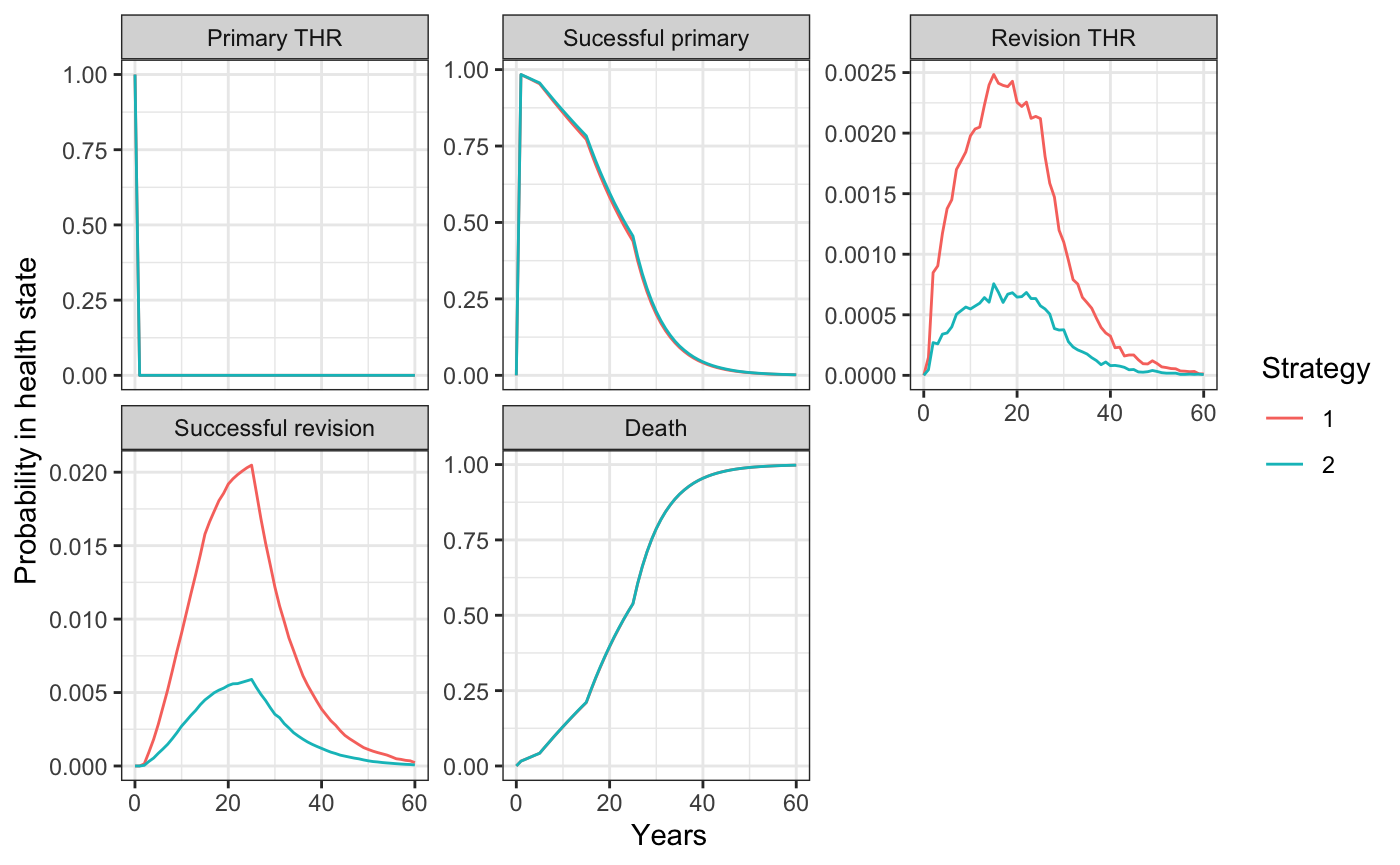
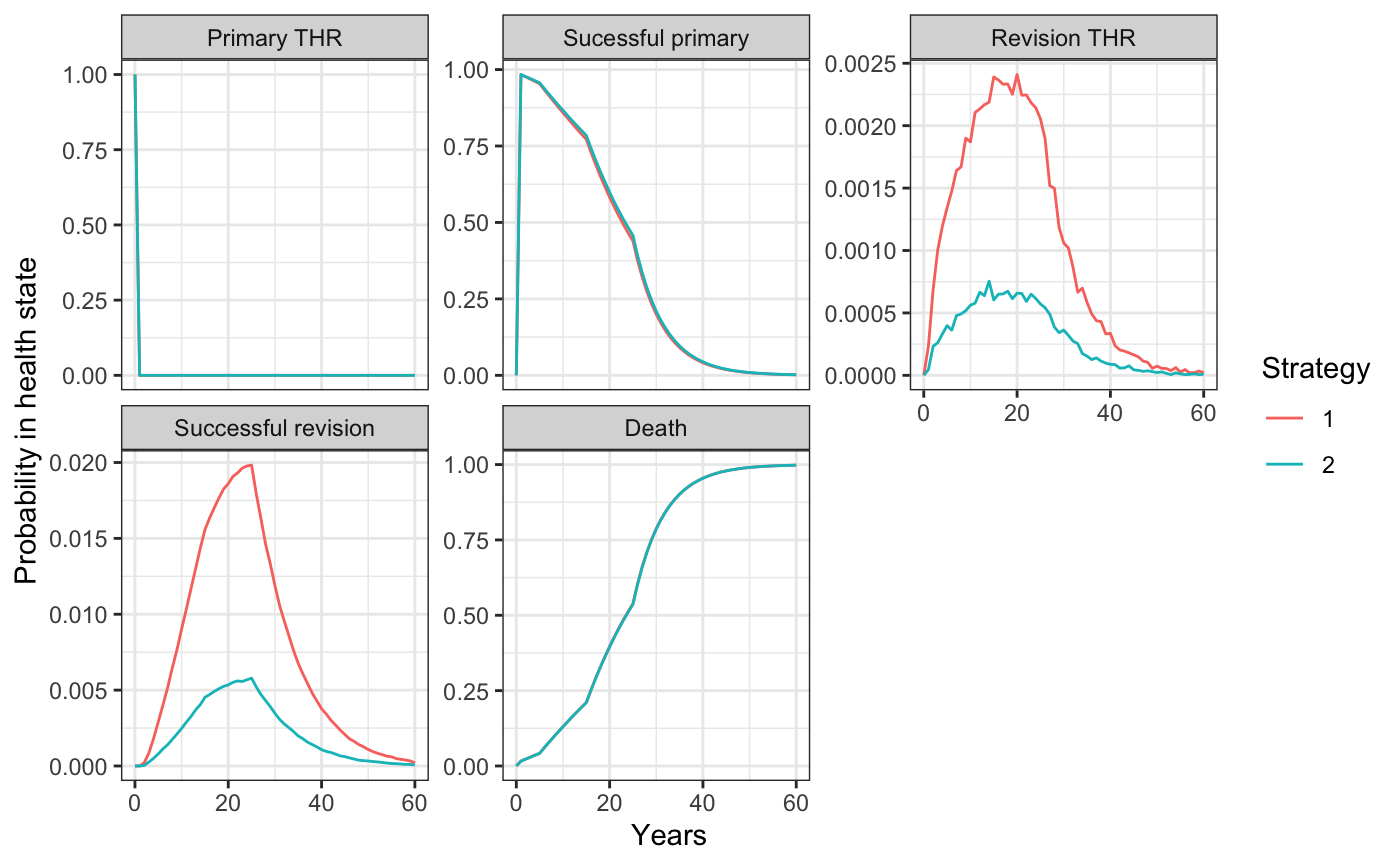
Update markov-inhomogeneous-indiv vignette (mainly moving parameter construction portion to correct section)

diff --git a/docs/dev/articles/markov-inhomogeneous-indiv.html b/docs/dev/articles/markov-inhomogeneous-indiv.html
@@ -111,7 +111,7 @@
     <div class="page-header toc-ignore">
       <h1 data-toc-skip>Time inhomogeneous Markov individual-level models</h1>
             
-            <h4 class="date">2020-09-21</h4>
+            <h4 class="date">2020-09-25</h4>
       
       <small class="dont-index">Source: <a href="https://github.com/hesim-dev/hesim/blob/master/vignettes/markov-inhomogeneous-indiv.Rmd"><code>vignettes/markov-inhomogeneous-indiv.Rmd</code></a></small>
       <div class="hidden name"><code>markov-inhomogeneous-indiv.Rmd</code></div>
@@ -344,15 +344,18 @@ NA
 </tr>
 </tbody>
 </table>
-<div id="transition-1" class="section level3">
+<div id="estimates-from-literature" class="section level3">
 <h3 class="hasAnchor">
-<a href="#transition-1" class="anchor"></a>Transition 1</h3>
+<a href="#estimates-from-literature" class="anchor"></a>Estimates from literature</h3>
+<div id="transition-1" class="section level4">
+<h4 class="hasAnchor">
+<a href="#transition-1" class="anchor"></a>Transition 1</h4>
 <p>The model for the first transition determines the time from the original surgery until it is deemed “successful”. In the Markov model, we used model cycles that were 1-year long meaning that this process took 1-year. Since there are no model cycles in a CTSTM, we can be more flexible. Let’s assume that time to recovery (TTR) from surgery takes on average 6 months and follows an exponential distribution.</p>
 <div class="sourceCode" id="cb5"><html><body><pre class="r"><span class="no">ttrrPTHR</span> <span class="kw">&lt;-</span> <span class="fl">2</span> <span class="co"># Time to recovery rate implies mean time of 1/2 years</span></pre></body></html></div>
 </div>
-<div id="transition-2" class="section level3">
-<h3 class="hasAnchor">
-<a href="#transition-2" class="anchor"></a>Transition 2</h3>
+<div id="transition-2" class="section level4">
+<h4 class="hasAnchor">
+<a href="#transition-2" class="anchor"></a>Transition 2</h4>
 <p>The second transition depends on the operative mortality rate following primary THR (<em>omrPTHR</em>). As in the cohort model we will assume the probability of death (within 1-year) is drawn from a beta distributions.</p>
 <div class="sourceCode" id="cb6"><html><body><pre class="r"><span class="co"># 2 out of 100 patients receiving primary THR died</span>
 <span class="no">omrPTHR_shape1</span> <span class="kw">&lt;-</span> <span class="fl">2</span>
@@ -362,9 +365,9 @@ NA
   (-<span class="fu"><a href="https://rdrr.io/r/base/Log.html">log</a></span>(<span class="fl">1</span> - <span class="no">p</span>))/<span class="no">t</span>
 }</pre></body></html></div>
 </div>
-<div id="transition-3" class="section level3">
-<h3 class="hasAnchor">
-<a href="#transition-3" class="anchor"></a>Transition 3</h3>
+<div id="transition-3" class="section level4">
+<h4 class="hasAnchor">
+<a href="#transition-3" class="anchor"></a>Transition 3</h4>
 <p>Transition 3 depends on the revision rate (<code>rr</code>) for a prosthesis, which will again be modeled using a proportional hazards Weibull model. The coefficients and variance-covariance matrix are displayed below.</p>
 <div class="sourceCode" id="cb8"><html><body><pre class="r"><span class="fu"><a href="https://rdrr.io/r/base/print.html">print</a></span>(<span class="no">rr_coef</span>)</pre></body></html></div>
 <pre><code>##    lngamma       cons        age       male        np1 
@@ -377,119 +380,54 @@ NA
 ## male     0.000005100 -0.00724700  3.300000e-05  0.01189539  0.0001840
 ## np1      0.000259000 -0.00064200 -1.110000e-04  0.00018400  0.1463686</code></pre>
 </div>
-<div id="transition-4" class="section level3">
-<h3 class="hasAnchor">
-<a href="#transition-4" class="anchor"></a>Transition 4</h3>
+<div id="transition-4" class="section level4">
+<h4 class="hasAnchor">
+<a href="#transition-4" class="anchor"></a>Transition 4</h4>
 <p>The fourth transition is modeled using the death rate following recovery from the THR (i.e., while in the successful primary state). We will again use age and sex specific mortality rates.</p>
 <p>Since we are running the simulation for a 60-year old female, the mortality rate at time <span class="math inline">\(0\)</span> is <span class="math inline">\(0.0067\)</span>. We are using a clock-forward (i.e., Markov model), so the hazard depends on time since the start of the model. We can therefore model mortality over time with a piecewise exponential distribution with rates that vary over time. For a 60-year female, the rates will change at 5, 15, and 25 years.</p>
 <div class="sourceCode" id="cb12"><html><body><pre class="r"><span class="no">mr</span> <span class="kw">&lt;-</span> <span class="fu"><a href="https://rdrr.io/r/base/c.html">c</a></span>(<span class="fl">.0067</span>, <span class="fl">.0193</span>, <span class="fl">.0535</span>, <span class="fl">.1548</span>)
 <span class="no">mr_times</span> <span class="kw">&lt;-</span> <span class="fu"><a href="https://rdrr.io/r/base/c.html">c</a></span>(<span class="fl">0</span>, <span class="fl">5</span>, <span class="fl">15</span>, <span class="fl">25</span>)</pre></body></html></div>
 </div>
-<div id="transition-5" class="section level3">
-<h3 class="hasAnchor">
-<a href="#transition-5" class="anchor"></a>Transition 5</h3>
+<div id="transition-5" class="section level4">
+<h4 class="hasAnchor">
+<a href="#transition-5" class="anchor"></a>Transition 5</h4>
 <p>Transition 5 is similar to transition 1 in that it is a function of time to recovery from a THR. While we could again model this process with an exponential distribution, we will instead assume this time is “fixed” for illustration purposes. Specifically, let’s assume it takes one year for every patient.</p>
 <div class="sourceCode" id="cb13"><html><body><pre class="r"><span class="no">ttrRTHR</span> <span class="kw">&lt;-</span> <span class="fl">1</span> <span class="co"># There is no rate, the time is fixed</span></pre></body></html></div>
 </div>
-<div id="transition-6" class="section level3">
-<h3 class="hasAnchor">
-<a href="#transition-6" class="anchor"></a>Transition 6</h3>
+<div id="transition-6" class="section level4">
+<h4 class="hasAnchor">
+<a href="#transition-6" class="anchor"></a>Transition 6</h4>
 <p>Following the prior example, the sixth transition depends on the operative mortality rate following revision THR (<em>omrRTHR</em>) and the overall mortality rate (<em>mr</em>). The <em>omrRTHR</em> is assumed to follow the same distribution as the <em>omrPTHR</em>.</p>
 <p>These probabilities will be converted to rates below and then added to overall mortality rate (<em>mr</em>) at times 0, 5, 15, and 25 years. Transition 6 will consequently be modeled using a piecewise exponential distribution.</p>
 </div>
-<div id="transition-7" class="section level3">
-<h3 class="hasAnchor">
-<a href="#transition-7" class="anchor"></a>Transition 7</h3>
+<div id="transition-7" class="section level4">
+<h4 class="hasAnchor">
+<a href="#transition-7" class="anchor"></a>Transition 7</h4>
 <p>The re-revision rate (<em>rrr</em>) is used to model the seventh transition. Like the <em>omrPTHR</em>, the probability is modeled with a beta distribution and will be converted to a rate below.</p>
 <div class="sourceCode" id="cb14"><html><body><pre class="r"><span class="co"># 4 out of 100 patients with a successful revision needed another procedure r</span>
 <span class="no">omrRTHR_shape1</span> <span class="kw">&lt;-</span> <span class="fl">4</span>
 <span class="no">omrRTHR_shape2</span> <span class="kw">&lt;-</span> <span class="fl">96</span></pre></body></html></div>
 </div>
-<div id="transition-8" class="section level3">
-<h3 class="hasAnchor">
-<a href="#transition-8" class="anchor"></a>Transition 8</h3>
+<div id="transition-8" class="section level4">
+<h4 class="hasAnchor">
+<a href="#transition-8" class="anchor"></a>Transition 8</h4>
 <p>The final transition is time to death following a successful revision. We model it with the same model used for transition 4; that is, we assume mortality rates following a successful revision THR are the same as mortality rates following a successful primary THR.</p>
 </div>
 </div>
-<div id="utility-and-costs" class="section level2">
-<h2 class="hasAnchor">
-<a href="#utility-and-costs" class="anchor"></a>Utility and costs</h2>
-<p>Costs and utilities are unchanged from the cohort model. The mean (standard error) of utility are estimated be 0.85 (0.03), 0.30 (0.03), and 0.75 (0.04) in the successful primary, revision, and successful revision health states, respectively.</p>
-<div class="sourceCode" id="cb15"><html><body><pre class="r"><span class="no">utility_tbl</span> <span class="kw">&lt;-</span> <span class="fu"><a href="../reference/stateval_tbl.html">stateval_tbl</a></span>(
-  <span class="fu"><a href="https://Rdatatable.gitlab.io/data.table/reference/data.table.html">data.table</a></span>(<span class="kw">state_id</span> <span class="kw">=</span> <span class="no">states</span>$<span class="no">state_id</span>,
-             <span class="kw">mean</span> <span class="kw">=</span> <span class="fu"><a href="https://rdrr.io/r/base/c.html">c</a></span>(<span class="fl">0</span>, <span class="fl">.85</span>, <span class="fl">.3</span>, <span class="fl">.75</span>),
-             <span class="kw">se</span> <span class="kw">=</span> <span class="fu"><a href="https://rdrr.io/r/base/c.html">c</a></span>(<span class="fl">0</span>, <span class="fl">.03</span>, <span class="fl">.03</span>, <span class="fl">.04</span>)),
-  <span class="kw">dist</span> <span class="kw">=</span> <span class="st">"beta"</span>,
-  <span class="kw">hesim_data</span> <span class="kw">=</span> <span class="no">hesim_dat</span>
-)
-<span class="fu"><a href="https://rdrr.io/r/utils/head.html">head</a></span>(<span class="no">utility_tbl</span>)</pre></body></html></div>
-<pre><code>##    state_id mean   se
-## 1:        1 0.00 0.00
-## 2:        2 0.85 0.03
-## 3:        3 0.30 0.03
-## 4:        4 0.75 0.04</code></pre>
-<p>The standard prosthesis costs <span class="math inline">\(£394\)</span> while the new prosthesis costs <span class="math inline">\(£579\)</span>. Both are assumed to be known with certainty.</p>
-<p>Since the model assumes that there are no ongoing medical costs, the only remaining cost is the cost of the revision procedure, which was estimated to have a mean of <span class="math inline">\(£5,294\)</span> and standard error of <span class="math inline">\(£1,487\)</span>.</p>
-<div class="sourceCode" id="cb17"><html><body><pre class="r"><span class="no">drugcost_tbl</span> <span class="kw">&lt;-</span> <span class="fu"><a href="../reference/stateval_tbl.html">stateval_tbl</a></span>(
-  <span class="fu"><a href="https://Rdatatable.gitlab.io/data.table/reference/data.table.html">data.table</a></span>(<span class="kw">strategy_id</span> <span class="kw">=</span> <span class="fu"><a href="https://rdrr.io/r/base/rep.html">rep</a></span>(<span class="no">strategies</span>$<span class="no">strategy_id</span>, <span class="kw">each</span> <span class="kw">=</span> <span class="no">n_states</span>),
-             <span class="kw">state_id</span> <span class="kw">=</span> <span class="fu"><a href="https://rdrr.io/r/base/rep.html">rep</a></span>(<span class="no">states</span>$<span class="no">state_id</span>, <span class="kw">times</span> <span class="kw">=</span> <span class="no">n_strategies</span>),
-             <span class="kw">est</span> <span class="kw">=</span> <span class="fu"><a href="https://rdrr.io/r/base/c.html">c</a></span>(<span class="fl">394</span>, <span class="fl">0</span>, <span class="fl">0</span>, <span class="fl">0</span>,
-                     <span class="fl">579</span>, <span class="fl">0</span>, <span class="fl">0</span>, <span class="fl">0</span>)),
-  <span class="kw">dist</span> <span class="kw">=</span> <span class="st">"fixed"</span>,
-  <span class="kw">hesim_data</span> <span class="kw">=</span> <span class="no">hesim_dat</span>
-)
-
-<span class="no">medcost_tbl</span> <span class="kw">&lt;-</span> <span class="fu"><a href="../reference/stateval_tbl.html">stateval_tbl</a></span>(
-  <span class="fu"><a href="https://Rdatatable.gitlab.io/data.table/reference/data.table.html">data.table</a></span>(<span class="kw">state_id</span> <span class="kw">=</span> <span class="no">states</span>$<span class="no">state_id</span>,
-             <span class="kw">mean</span> <span class="kw">=</span> <span class="fu"><a href="https://rdrr.io/r/base/c.html">c</a></span>(<span class="fl">0</span>, <span class="fl">0</span>, <span class="fl">5294</span>, <span class="fl">0</span>),
-             <span class="kw">se</span> <span class="kw">=</span> <span class="fu"><a href="https://rdrr.io/r/base/c.html">c</a></span>(<span class="fl">0</span>, <span class="fl">0</span>, <span class="fl">1487</span>, <span class="fl">0</span>)),
-  <span class="kw">dist</span> <span class="kw">=</span> <span class="st">"gamma"</span>,
-  <span class="kw">hesim_data</span> <span class="kw">=</span> <span class="no">hesim_dat</span>
-)</pre></body></html></div>
-</div>
-</div>
-<div id="simulation" class="section level1">
-<h1 class="hasAnchor">
-<a href="#simulation" class="anchor"></a>Simulation</h1>
-<div id="constructing-the-model" class="section level2">
-<h2 class="hasAnchor">
-<a href="#constructing-the-model" class="anchor"></a>Constructing the model</h2>
-<p>The economic model consists of a model for disease progression and models for assigning utility and cost values to health states. In this example, we will use 500 samples of the parameters for the probabilistic sensitivity analysis (PSA).</p>
-<div class="sourceCode" id="cb18"><html><body><pre class="r"><span class="no">n_samples</span> <span class="kw">&lt;-</span> <span class="fl">500</span></pre></body></html></div>
-<div id="disease-model" class="section level3">
+<div id="multi-state-model" class="section level3">
 <h3 class="hasAnchor">
-<a href="#disease-model" class="anchor"></a>Disease model</h3>
-<div id="input-data" class="section level4">
-<h4 class="hasAnchor">
-<a href="#input-data" class="anchor"></a>Input data</h4>
-<p>The transition model is a function of parameters and input data. The input data in this case is a dataset consisting of one row for each treatment strategy and patient. It can be generated using <code><a href="../reference/expand.html">expand()</a></code>.</p>
-<div class="sourceCode" id="cb19"><html><body><pre class="r"><span class="no">transmod_data</span> <span class="kw">&lt;-</span> <span class="fu"><a href="../reference/expand.html">expand</a></span>(<span class="no">hesim_dat</span>, <span class="kw">by</span> <span class="kw">=</span> <span class="fu"><a href="https://rdrr.io/r/base/c.html">c</a></span>(<span class="st">"strategies"</span>, <span class="st">"patients"</span>))
-<span class="fu"><a href="https://rdrr.io/r/utils/head.html">head</a></span>(<span class="no">transmod_data</span>)</pre></body></html></div>
-<pre><code>##    strategy_id patient_id       strategy_name gender age
-## 1:           1          1 Standard prosthesis Female  60
-## 2:           1          2 Standard prosthesis Female  60
-## 3:           1          3 Standard prosthesis Female  60
-## 4:           1          4 Standard prosthesis Female  60
-## 5:           1          5 Standard prosthesis Female  60
-## 6:           1          6 Standard prosthesis Female  60</code></pre>
-<p>Since we are using a Weibull regression model to simulate time until a revision hip replacement (<em>Successful primary</em> to <em>Revision THR</em>), we need to create a constant term and covariates for male sex and whether the new prosthesis was used.</p>
-<div class="sourceCode" id="cb21"><html><body><pre class="r"><span class="no">transmod_data</span>[, <span class="no">cons</span> <span class="kw">:=</span> <span class="fl">1</span>]
-<span class="no">transmod_data</span>[, <span class="no">male</span> <span class="kw">:=</span> <span class="fu"><a href="https://Rdatatable.gitlab.io/data.table/reference/fifelse.html">ifelse</a></span>(<span class="no">gender</span> <span class="kw">==</span> <span class="st">"Male"</span>, <span class="fl">1</span>, <span class="fl">0</span>)]
-<span class="no">transmod_data</span>[, <span class="no">np1</span> <span class="kw">:=</span> <span class="fu"><a href="https://Rdatatable.gitlab.io/data.table/reference/fifelse.html">ifelse</a></span>(<span class="no">strategy_name</span> <span class="kw">==</span> <span class="st">"New prosthesis"</span>, <span class="fl">1</span>, <span class="fl">0</span>)]</pre></body></html></div>
-</div>
-<div id="parameters-1" class="section level4">
-<h4 class="hasAnchor">
-<a href="#parameters-1" class="anchor"></a>Parameters</h4>
-<p>A transition model consists of survival models for each transition. The parameters of survival models are predicted as a function of covariates and consequently depend on the coefficients of underlying statistical models. To perform PSA, we sample the coefficients from the distributions described above. Note that the coefficients are expressed on the real-line (e.g., after a log transformation if they are constrained to be positive).</p>
-<p>The coefficients of each model must be a matrix (rows for parameter samples and columns for covariates). Since we often use intercept only models, let’s write a simple function to convert a vector to a matrix with a single column for the intercept.</p>
-<div class="sourceCode" id="cb22"><html><body><pre class="r"><span class="no">matrixv</span> <span class="kw">&lt;-</span> <span class="kw">function</span>(<span class="no">v</span>, <span class="no">n</span> <span class="kw">=</span> <span class="kw">NULL</span>){
+<a href="#multi-state-model" class="anchor"></a>Multi-state model</h3>
+<p>The transition-specific estimates can be combined to create a multi-state model, which is comprised of survival models for each transition. Since we will perform a probabilistic sensitivity analysis (PSA), we will sample the parameters from the distributions described above. 500 iterations will be used.</p>
+<div class="sourceCode" id="cb15"><html><body><pre class="r"><span class="no">n_samples</span> <span class="kw">&lt;-</span> <span class="fl">500</span></pre></body></html></div>
+<p>Survival models are regression models, so the parameters are regression coefficients. The coefficients of each model must be a matrix (rows for parameter samples and columns for covariates). Since we often use intercept only models, let’s write a simple function to convert a vector to a matrix with a single column for the intercept.</p>
+<div class="sourceCode" id="cb16"><html><body><pre class="r"><span class="no">matrixv</span> <span class="kw">&lt;-</span> <span class="kw">function</span>(<span class="no">v</span>, <span class="no">n</span> <span class="kw">=</span> <span class="kw">NULL</span>){
   <span class="kw">if</span> (<span class="fu"><a href="https://rdrr.io/r/base/length.html">length</a></span>(<span class="no">v</span>) <span class="kw">==</span> <span class="fl">1</span>) <span class="no">v</span> <span class="kw">&lt;-</span> <span class="fu"><a href="https://rdrr.io/r/base/rep.html">rep</a></span>(<span class="no">v</span>, <span class="no">n_samples</span>)
   <span class="no">m</span> <span class="kw">&lt;-</span> <span class="fu"><a href="https://rdrr.io/r/base/matrix.html">matrix</a></span>(<span class="no">v</span>)
   <span class="fu"><a href="https://rdrr.io/r/base/colnames.html">colnames</a></span>(<span class="no">m</span>) <span class="kw">&lt;-</span> <span class="st">"cons"</span>
   <span class="fu"><a href="https://rdrr.io/r/base/function.html">return</a></span>(<span class="no">m</span>)
 }</pre></body></html></div>
 <p>Our new helper function can then used within <code><a href="../reference/define_rng.html">define_rng()</a></code> to sample distributions of the coefficients.</p>
-<div class="sourceCode" id="cb23"><html><body><pre class="r"><span class="no">transmod_coef_def</span> <span class="kw">&lt;-</span> <span class="fu"><a href="../reference/define_rng.html">define_rng</a></span>({
+<div class="sourceCode" id="cb17"><html><body><pre class="r"><span class="no">transmod_coef_def</span> <span class="kw">&lt;-</span> <span class="fu"><a href="../reference/define_rng.html">define_rng</a></span>({
   <span class="no">omrPTHR</span> <span class="kw">&lt;-</span> <span class="fu">prob_to_rate</span>(<span class="fu"><a href="../reference/rng_distributions.html">beta_rng</a></span>(<span class="kw">shape1</span> <span class="kw">=</span> <span class="no">omrPTHR_shape1</span>,
                                    <span class="kw">shape2</span> <span class="kw">=</span> <span class="no">omrPTHR_shape2</span>))
   <span class="no">mr</span> <span class="kw">&lt;-</span> <span class="fu"><a href="../reference/rng_distributions.html">fixed</a></span>(<span class="no">mr</span>)
@@ -509,24 +447,24 @@ NA
 }, <span class="kw">n</span> <span class="kw">=</span> <span class="no">n_samples</span>)
 <span class="no">transmod_coef</span> <span class="kw">&lt;-</span> <span class="fu"><a href="../reference/define_rng.html">eval_rng</a></span>(<span class="no">transmod_coef_def</span>)</pre></body></html></div>
 <p>To get a better understanding of the output, lets take a look at a few of the sampled coefficient matrices.</p>
-<div class="sourceCode" id="cb24"><html><body><pre class="r"><span class="fu"><a href="https://rdrr.io/r/utils/head.html">head</a></span>(<span class="no">transmod_coef</span>$<span class="no">log_omrPTHR</span>)</pre></body></html></div>
+<div class="sourceCode" id="cb18"><html><body><pre class="r"><span class="fu"><a href="https://rdrr.io/r/utils/head.html">head</a></span>(<span class="no">transmod_coef</span>$<span class="no">log_omrPTHR</span>)</pre></body></html></div>
 <pre><code>##           cons
-## [1,] -4.836787
-## [2,] -4.875384
-## [3,] -4.488532
-## [4,] -2.631123
-## [5,] -4.575167
-## [6,] -5.142389</code></pre>
-<div class="sourceCode" id="cb26"><html><body><pre class="r"><span class="fu"><a href="https://rdrr.io/r/utils/head.html">head</a></span>(<span class="no">transmod_coef</span>$<span class="no">rr_scale</span>)</pre></body></html></div>
-<pre><code>##           cons         age      male       np1
-## [1,] -5.443969 -0.04077458 0.8344661 -0.930714
-## [2,] -5.606195 -0.03077033 0.8041689 -1.897946
-## [3,] -5.526427 -0.03601130 0.7939529 -2.287609
-## [4,] -5.627025 -0.02865798 0.4180247 -1.770771
-## [5,] -5.389804 -0.03969721 0.8648538 -1.311109
-## [6,] -5.456943 -0.03446389 0.7600734 -1.143201</code></pre>
-<p>In addition to the coefficients, a complete parameterization of a transition model requires specification of the survival distributions and potentially auxiliary information (e.g., the times at which rates change in a piecewise exponential model). The parameters are stored in a <code>params_surv_list</code> object, which is a list of <code>params_surv</code> objects.</p>
-<div class="sourceCode" id="cb28"><html><body><pre class="r"><span class="no">transmod_params</span> <span class="kw">&lt;-</span> <span class="fu"><a href="../reference/params_surv_list.html">params_surv_list</a></span>(
+## [1,] -4.444488
+## [2,] -3.844001
+## [3,] -3.799527
+## [4,] -5.106745
+## [5,] -5.350271
+## [6,] -4.101277</code></pre>
+<div class="sourceCode" id="cb20"><html><body><pre class="r"><span class="fu"><a href="https://rdrr.io/r/utils/head.html">head</a></span>(<span class="no">transmod_coef</span>$<span class="no">rr_scale</span>)</pre></body></html></div>
+<pre><code>##           cons         age      male        np1
+## [1,] -5.611583 -0.03341304 0.7097597 -0.8798915
+## [2,] -5.203207 -0.03890353 0.7861999 -0.7969192
+## [3,] -5.441593 -0.03990246 0.7850129 -0.5488496
+## [4,] -5.384248 -0.03947484 0.8411112 -0.4524424
+## [5,] -5.803952 -0.03331823 0.7482460 -1.4007216
+## [6,] -5.447413 -0.03810072 0.7530221 -1.9165612</code></pre>
+<p>In addition to the coefficients, a complete parameterization of a transition model requires specification of the survival distributions and potentially auxiliary information (e.g., the times at which rates change in a piecewise exponential model). The parameters are stored in a <code><a href="../reference/params_surv_list.html">params_surv_list()</a></code> object, which is a list of <code><a href="../reference/params_surv.html">params_surv()</a></code> objects.</p>
+<div class="sourceCode" id="cb22"><html><body><pre class="r"><span class="no">transmod_params</span> <span class="kw">&lt;-</span> <span class="fu"><a href="../reference/params_surv_list.html">params_surv_list</a></span>(
   <span class="co"># 1. Primary THR:Successful primary (1:2)</span>
   <span class="fu"><a href="../reference/params_surv.html">params_surv</a></span>(<span class="kw">coefs</span> <span class="kw">=</span> <span class="fu"><a href="https://rdrr.io/r/base/list.html">list</a></span>(<span class="kw">rate</span> <span class="kw">=</span> <span class="no">transmod_coef</span>$<span class="no">log_ttrrPTHR</span>),
               <span class="kw">dist</span> <span class="kw">=</span> <span class="st">"fixed"</span>),
@@ -564,9 +502,68 @@ NA
               <span class="kw">dist</span> <span class="kw">=</span> <span class="st">"pwexp"</span>)
 )</pre></body></html></div>
 </div>
-<div id="model-object" class="section level4">
-<h4 class="hasAnchor">
-<a href="#model-object" class="anchor"></a>Model object</h4>
+</div>
+<div id="utility-and-costs" class="section level2">
+<h2 class="hasAnchor">
+<a href="#utility-and-costs" class="anchor"></a>Utility and costs</h2>
+<p>Costs and utilities are unchanged from the cohort model. The mean (standard error) of utility are estimated be <span class="math inline">\(0.85\)</span> (<span class="math inline">\(0.03\)</span>), <span class="math inline">\(0.30\)</span> (<span class="math inline">\(0.03\)</span>), and <span class="math inline">\(0.75\)</span> (<span class="math inline">\(0.04\)</span>) in the successful primary, revision, and successful revision health states, respectively.</p>
+<div class="sourceCode" id="cb23"><html><body><pre class="r"><span class="no">utility_tbl</span> <span class="kw">&lt;-</span> <span class="fu"><a href="../reference/stateval_tbl.html">stateval_tbl</a></span>(
+  <span class="fu"><a href="https://Rdatatable.gitlab.io/data.table/reference/data.table.html">data.table</a></span>(<span class="kw">state_id</span> <span class="kw">=</span> <span class="no">states</span>$<span class="no">state_id</span>,
+             <span class="kw">mean</span> <span class="kw">=</span> <span class="fu"><a href="https://rdrr.io/r/base/c.html">c</a></span>(<span class="fl">0</span>, <span class="fl">.85</span>, <span class="fl">.3</span>, <span class="fl">.75</span>),
+             <span class="kw">se</span> <span class="kw">=</span> <span class="fu"><a href="https://rdrr.io/r/base/c.html">c</a></span>(<span class="fl">0</span>, <span class="fl">.03</span>, <span class="fl">.03</span>, <span class="fl">.04</span>)),
+  <span class="kw">dist</span> <span class="kw">=</span> <span class="st">"beta"</span>,
+  <span class="kw">hesim_data</span> <span class="kw">=</span> <span class="no">hesim_dat</span>
+)
+<span class="fu"><a href="https://rdrr.io/r/utils/head.html">head</a></span>(<span class="no">utility_tbl</span>)</pre></body></html></div>
+<pre><code>##    state_id mean   se
+## 1:        1 0.00 0.00
+## 2:        2 0.85 0.03
+## 3:        3 0.30 0.03
+## 4:        4 0.75 0.04</code></pre>
+<p>The standard prosthesis costs <span class="math inline">\(£394\)</span> while the new prosthesis costs <span class="math inline">\(£579\)</span>. Both are assumed to be known with certainty.</p>
+<p>Since the model assumes that there are no ongoing medical costs, the only remaining cost is the cost of the revision procedure, which was estimated to have a mean of <span class="math inline">\(£5,294\)</span> and standard error of <span class="math inline">\(£1,487\)</span>.</p>
+<div class="sourceCode" id="cb25"><html><body><pre class="r"><span class="no">drugcost_tbl</span> <span class="kw">&lt;-</span> <span class="fu"><a href="../reference/stateval_tbl.html">stateval_tbl</a></span>(
+  <span class="fu"><a href="https://Rdatatable.gitlab.io/data.table/reference/data.table.html">data.table</a></span>(<span class="kw">strategy_id</span> <span class="kw">=</span> <span class="fu"><a href="https://rdrr.io/r/base/rep.html">rep</a></span>(<span class="no">strategies</span>$<span class="no">strategy_id</span>, <span class="kw">each</span> <span class="kw">=</span> <span class="no">n_states</span>),
+             <span class="kw">state_id</span> <span class="kw">=</span> <span class="fu"><a href="https://rdrr.io/r/base/rep.html">rep</a></span>(<span class="no">states</span>$<span class="no">state_id</span>, <span class="kw">times</span> <span class="kw">=</span> <span class="no">n_strategies</span>),
+             <span class="kw">est</span> <span class="kw">=</span> <span class="fu"><a href="https://rdrr.io/r/base/c.html">c</a></span>(<span class="fl">394</span>, <span class="fl">0</span>, <span class="fl">0</span>, <span class="fl">0</span>,
+                     <span class="fl">579</span>, <span class="fl">0</span>, <span class="fl">0</span>, <span class="fl">0</span>)),
+  <span class="kw">dist</span> <span class="kw">=</span> <span class="st">"fixed"</span>,
+  <span class="kw">hesim_data</span> <span class="kw">=</span> <span class="no">hesim_dat</span>
+)
+
+<span class="no">medcost_tbl</span> <span class="kw">&lt;-</span> <span class="fu"><a href="../reference/stateval_tbl.html">stateval_tbl</a></span>(
+  <span class="fu"><a href="https://Rdatatable.gitlab.io/data.table/reference/data.table.html">data.table</a></span>(<span class="kw">state_id</span> <span class="kw">=</span> <span class="no">states</span>$<span class="no">state_id</span>,
+             <span class="kw">mean</span> <span class="kw">=</span> <span class="fu"><a href="https://rdrr.io/r/base/c.html">c</a></span>(<span class="fl">0</span>, <span class="fl">0</span>, <span class="fl">5294</span>, <span class="fl">0</span>),
+             <span class="kw">se</span> <span class="kw">=</span> <span class="fu"><a href="https://rdrr.io/r/base/c.html">c</a></span>(<span class="fl">0</span>, <span class="fl">0</span>, <span class="fl">1487</span>, <span class="fl">0</span>)),
+  <span class="kw">dist</span> <span class="kw">=</span> <span class="st">"gamma"</span>,
+  <span class="kw">hesim_data</span> <span class="kw">=</span> <span class="no">hesim_dat</span>
+)</pre></body></html></div>
+</div>
+</div>
+<div id="simulation" class="section level1">
+<h1 class="hasAnchor">
+<a href="#simulation" class="anchor"></a>Simulation</h1>
+<div id="constructing-the-model" class="section level2">
+<h2 class="hasAnchor">
+<a href="#constructing-the-model" class="anchor"></a>Constructing the model</h2>
+<p>The economic model consists of a model for disease progression and models for assigning utility and cost values to health states.</p>
+<div id="disease-model" class="section level3">
+<h3 class="hasAnchor">
+<a href="#disease-model" class="anchor"></a>Disease model</h3>
+<p>The transition model is a function of the parameters of the multi-state model and input data. The input data in this case is a dataset consisting of one row for each treatment strategy and patient. It can be generated using <code><a href="../reference/expand.hesim_data.html">expand.hesim_data()</a></code>.</p>
+<div class="sourceCode" id="cb26"><html><body><pre class="r"><span class="no">transmod_data</span> <span class="kw">&lt;-</span> <span class="fu"><a href="../reference/expand.html">expand</a></span>(<span class="no">hesim_dat</span>, <span class="kw">by</span> <span class="kw">=</span> <span class="fu"><a href="https://rdrr.io/r/base/c.html">c</a></span>(<span class="st">"strategies"</span>, <span class="st">"patients"</span>))
+<span class="fu"><a href="https://rdrr.io/r/utils/head.html">head</a></span>(<span class="no">transmod_data</span>)</pre></body></html></div>
+<pre><code>##    strategy_id patient_id       strategy_name gender age
+## 1:           1          1 Standard prosthesis Female  60
+## 2:           1          2 Standard prosthesis Female  60
+## 3:           1          3 Standard prosthesis Female  60
+## 4:           1          4 Standard prosthesis Female  60
+## 5:           1          5 Standard prosthesis Female  60
+## 6:           1          6 Standard prosthesis Female  60</code></pre>
+<p>Since we are using a Weibull regression model to simulate time until a revision hip replacement (<em>Successful primary</em> to <em>Revision THR</em>), we need to create a constant term and covariates for male sex and whether the new prosthesis was used.</p>
+<div class="sourceCode" id="cb28"><html><body><pre class="r"><span class="no">transmod_data</span>[, <span class="no">cons</span> <span class="kw">:=</span> <span class="fl">1</span>]
+<span class="no">transmod_data</span>[, <span class="no">male</span> <span class="kw">:=</span> <span class="fu"><a href="https://Rdatatable.gitlab.io/data.table/reference/fifelse.html">ifelse</a></span>(<span class="no">gender</span> <span class="kw">==</span> <span class="st">"Male"</span>, <span class="fl">1</span>, <span class="fl">0</span>)]
+<span class="no">transmod_data</span>[, <span class="no">np1</span> <span class="kw">:=</span> <span class="fu"><a href="https://Rdatatable.gitlab.io/data.table/reference/fifelse.html">ifelse</a></span>(<span class="no">strategy_name</span> <span class="kw">==</span> <span class="st">"New prosthesis"</span>, <span class="fl">1</span>, <span class="fl">0</span>)]</pre></body></html></div>
 <p>The full transition model is created using the transition parameters, the input data, the transition matrix, and the starting age of the patients. Since we are using a clock-forward model we use the <code>clock = "forward"</code> option.</p>
 <div class="sourceCode" id="cb29"><html><body><pre class="r"><span class="co"># Transition model</span>
 <span class="no">transmod</span> <span class="kw">&lt;-</span> <span class="fu"><a href="../reference/create_IndivCtstmTrans.html">create_IndivCtstmTrans</a></span>(<span class="no">transmod_params</span>,
@@ -574,7 +571,6 @@ NA
                                    <span class="kw">trans_mat</span> <span class="kw">=</span> <span class="no">tmat</span>,
                                    <span class="kw">clock</span> <span class="kw">=</span> <span class="st">"forward"</span>,
                                    <span class="kw">start_age</span> <span class="kw">=</span> <span class="no">patients</span>$<span class="no">age</span>)</pre></body></html></div>
-</div>
 </div>
 <div id="cost-and-utility-models" class="section level3">
 <h3 class="hasAnchor">
@@ -610,15 +606,15 @@ NA
 <span class="no">econmod</span>$<span class="fu">sim_disease</span>(<span class="kw">max_t</span> <span class="kw">=</span> <span class="fl">60</span>, <span class="kw">max_age</span> <span class="kw">=</span> <span class="fl">120</span>)
 <span class="fu"><a href="https://rdrr.io/r/base/proc.time.html">proc.time</a></span>() - <span class="no">ptm</span></pre></body></html></div>
 <pre><code>##    user  system elapsed 
-##   2.562   0.140   2.714</code></pre>
+##   2.521   0.135   2.703</code></pre>
 <div class="sourceCode" id="cb34"><html><body><pre class="r"><span class="fu"><a href="https://rdrr.io/r/utils/head.html">head</a></span>(<span class="no">econmod</span>$<span class="no">disprog_</span>)</pre></body></html></div>
 <pre><code>##    sample strategy_id patient_id grp_id from to final time_start  time_stop
 ## 1:      1           1          1      1    1  2     0  0.0000000  0.6931472
-## 2:      1           1          1      1    2  5     1  0.6931472 33.5163223
+## 2:      1           1          1      1    2  5     1  0.6931472  2.9150608
 ## 3:      1           1          2      1    1  2     0  0.0000000  0.6931472
-## 4:      1           1          2      1    2  5     1  0.6931472 17.9345929
+## 4:      1           1          2      1    2  5     1  0.6931472 13.4763714
 ## 5:      1           1          3      1    1  2     0  0.0000000  0.6931472
-## 6:      1           1          3      1    2  5     1  0.6931472 16.5102288</code></pre>
+## 6:      1           1          3      1    2  5     1  0.6931472 15.4700846</code></pre>
 <p>The simulated patient trajectories can be summarized by computing the probability of being in each health state over time (by averaging across the simulated patients). Here, we will compute state occupancy probabilities at yearly intervals. They are generally quite similar to those in the cohort model.</p>
 <div class="sourceCode" id="cb36"><html><body><pre class="r"><span class="no">econmod</span>$<span class="fu">sim_stateprobs</span>(<span class="kw">t</span> <span class="kw">=</span> <span class="fl">0</span>:<span class="fl">60</span>)</pre></body></html></div>
 <p><img src="markov-inhomogeneous-indiv_files/figure-html/unnamed-chunk-28-1.png" width="700"></p>
@@ -634,14 +630,14 @@ NA
 <span class="no">ce_sim</span>$<span class="no">qalys</span>[, <span class="fu">.</span>(<span class="kw">mean</span> <span class="kw">=</span> <span class="fu"><a href="https://rdrr.io/r/base/mean.html">mean</a></span>(<span class="no">qalys</span>)),
                 <span class="kw">by</span> <span class="kw">=</span> <span class="fu"><a href="https://rdrr.io/r/base/c.html">c</a></span>(<span class="st">"strategy_id"</span>)]</pre></body></html></div>
 <pre><code>##    strategy_id     mean
-## 1:           1 15.20510
-## 2:           2 15.23711</code></pre>
+## 1:           1 15.16723
+## 2:           2 15.22942</code></pre>
 <div class="sourceCode" id="cb40"><html><body><pre class="r"><span class="no">ce_sim</span>$<span class="no">costs</span>[<span class="no">category</span> <span class="kw">==</span> <span class="st">"total"</span>,
             <span class="fu">.</span>(<span class="kw">mean</span> <span class="kw">=</span> <span class="fu"><a href="https://rdrr.io/r/base/mean.html">mean</a></span>(<span class="no">costs</span>)),
               <span class="kw">by</span> <span class="kw">=</span> <span class="fu"><a href="https://rdrr.io/r/base/c.html">c</a></span>(<span class="st">"strategy_id"</span>)]</pre></body></html></div>
 <pre><code>##    strategy_id     mean
-## 1:           1 513.3465
-## 2:           2 613.2602</code></pre>
+## 1:           1 516.6743
+## 2:           2 614.4190</code></pre>
 </div>
 </div>
 </div>
@@ -653,10 +649,10 @@ NA
                      <span class="kw">k</span> <span class="kw">=</span> <span class="fu"><a href="https://rdrr.io/r/base/seq.html">seq</a></span>(<span class="fl">0</span>, <span class="fl">25000</span>, <span class="fl">500</span>))
 <span class="fu"><a href="../reference/icer_tbl.html">icer_tbl</a></span>(<span class="no">cea_pw_out</span>)</pre></body></html></div>
 <pre><code>##                   1   2                        
-## Incremental QALYs "-" "0.03 (-0.60, 0.57)"     
-## Incremental costs "-" "100 (-10, 166)"         
-## Incremental NMB   "-" "1,501 (-30,098, 28,351)"
-## ICER              "-" "3,121"                  
+## Incremental QALYs "-" "0.06 (-0.46, 0.56)"     
+## Incremental costs "-" "98 (-6, 160)"           
+## Incremental NMB   "-" "3,012 (-23,273, 27,921)"
+## ICER              "-" "1,572"                  
 ## Conclusion        "-" "Cost-effective"</code></pre>
 </div>
   </div>
